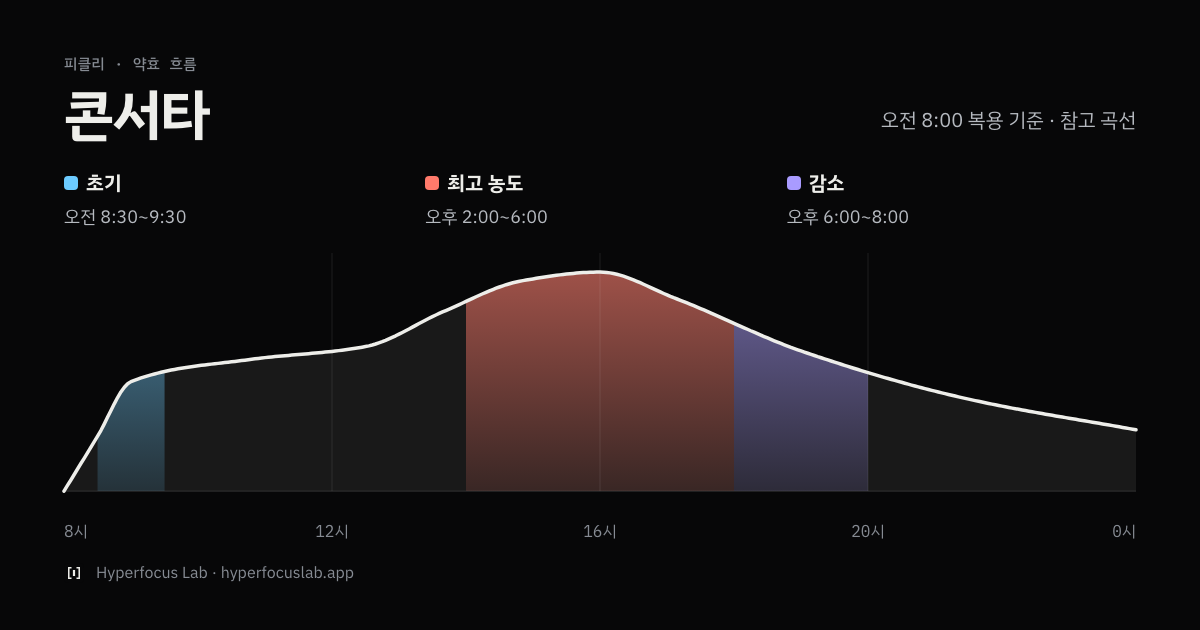
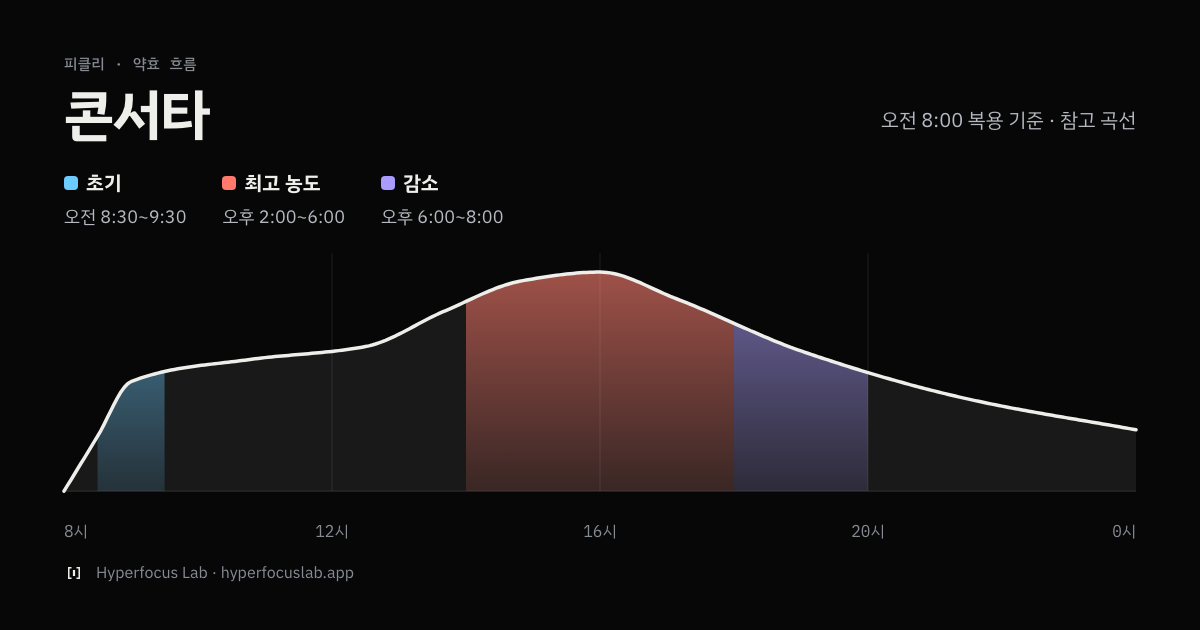
Peakly timing: legend packed from the left, one row per window when narrow
The legend sat in thirds, which lined up with the shaded windows for some drugs
and dose times and not for others, so it read as misplaced labels. It is now a
key packed from the left; under 640px each window gets its own row with the time
on the right, as the app's PKPhaseLegend falls back to. Share cards re-rendered
with the same legend.

diff --git a/src/styles/global.css b/src/styles/global.css
@@ -1224,10 +1224,12 @@ main > .section:first-child {
   font-variant-numeric: tabular-nums;
 }
 
+/* A key, not column headings: the windows move with the drug and the dose time, so the items
+   are packed from the left instead of sitting in thirds that only sometimes line up with them. */
 .pk-legend {
-  display: grid;
-  grid-template-columns: repeat(3, minmax(0, 1fr));
-  gap: 12px;
+  display: flex;
+  flex-wrap: wrap;
+  gap: 10px 36px;
   margin-top: 24px;
 }
 
@@ -1440,11 +1442,16 @@ main > .section:first-child {
     grid-column: 1 / -1;
   }
 
+  /* One row per window, name left and time right, as the app does when one line does not fit. */
   .pk-legend {
-    gap: 8px;
+    flex-direction: column;
+    gap: 6px;
   }
 
   .pk-legend-item {
+    display: flex;
+    justify-content: space-between;
+    gap: 8px;
     font-size: 0.875rem;
   }
 
